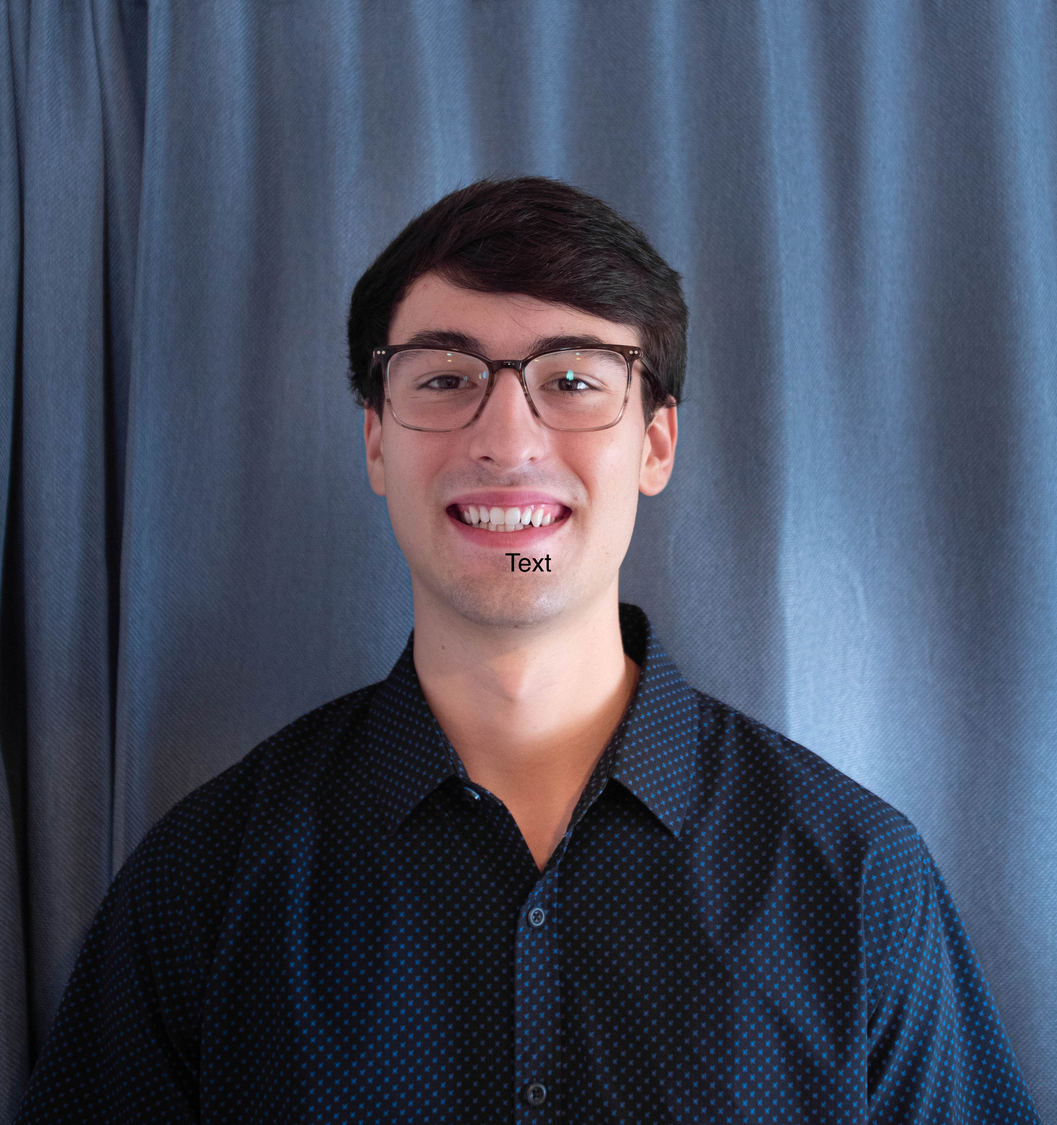
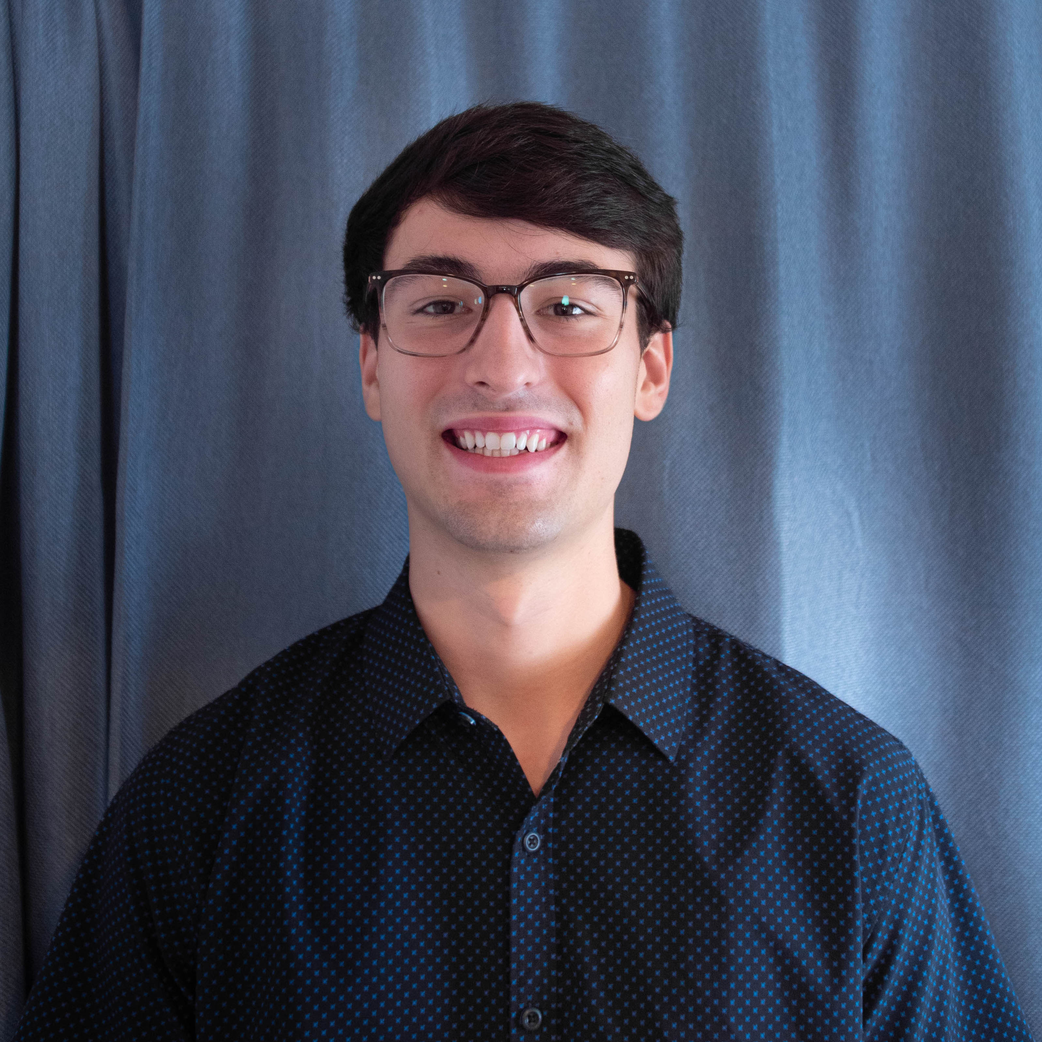
fgsd

diff --git a/index.html b/index.html
@@ -53,7 +53,7 @@
       <!-- ===============================================-->
       <!--    Navbar-->
       <nav class="navbar navbar-expand-lg navbar-light fixed-top py-5 d-block" data-navbar-on-scroll="data-navbar-on-scroll">
-        <div class="container"><a class="navbar-brand" href="index.html"><img src="assets/img/blitz/bliltz.png" height="40" alt="logo" /></a>
+        <div class="container"><a class="navbar-brand" href="index.html"><img src="assets/img/blitz/B.png" height="70" alt="logo" /></a>
           <button class="navbar-toggler" type="button" data-bs-toggle="collapse" data-bs-target="#navbarSupportedContent" aria-controls="navbarSupportedContent" aria-expanded="false" aria-label="Toggle navigation"><span class="navbar-toggler-icon"> </span></button>
           <div class="collapse navbar-collapse border-top border-lg-0 mt-4 mt-lg-0" id="navbarSupportedContent">
             <ul class="navbar-nav ms-auto pt-2 pt-lg-0 font-base align-items-lg-center align-items-start">
@@ -181,7 +181,9 @@
                   <div class="d-flex flex-column flex-lg-row justify-content-between mb-3">
                     <h4 class="text-secondary fw-bold">Owen Reynolds</h4>
                   </div>
-                  <div class="d-flex align-items-center"><span class="fs-0 fw-medium">Team member role and short bio.</span></div>
+                  <div class="d-flex align-items-center"><span class="fs-0 fw-medium">As Chief Technology Officer, my primary role is to oversee all aspects of 
+                    technology as it relates to the research, development, and deployment of our MacOS application and to effectively communicate all 
+                    technology requirements and limitations for MacOS app deployment in Swift. </span></div>
                 </div>
               </div>
             </div>
@@ -218,12 +220,14 @@
                   <div class="d-flex flex-column flex-lg-row justify-content-between mb-3">
                     <h4 class="text-secondary fw-bold">Viktoria Kangas</h4>
                   </div>
-                  <div class="d-flex align-items-center"><span class="fs-0 fw-medium">Team member role and short bio.</span></div>
+                  <div class="d-flex align-items-center"><span class="fs-0 fw-medium">As the creative project manager, 
+                    I will be working on the conceptual, written, visual, and design aspects of the app. In doing so 
+                    I will collaborate with the other creatives and the technical team to create our app. </span></div>
                 </div>
               </div>
             </div>
             <div class="col-md-4 mb-4">
-              <div class="card overflow-hidden shadow"> <img class="card-img-top" src="assets/img/team/nicolas.jpg" alt="Team Member Name" />
+              <div class="card overflow-hidden shadow"> <img class="card-img-top" src="assets/img/team/nicolas-2.jpg" alt="Team Member Name" />
                 <div class="card-body py-4 px-3">
                   <div class="d-flex flex-column flex-lg-row justify-content-between mb-3">
                     <h4 class="text-secondary fw-bold">Nicolas Tschirhart</h4>
